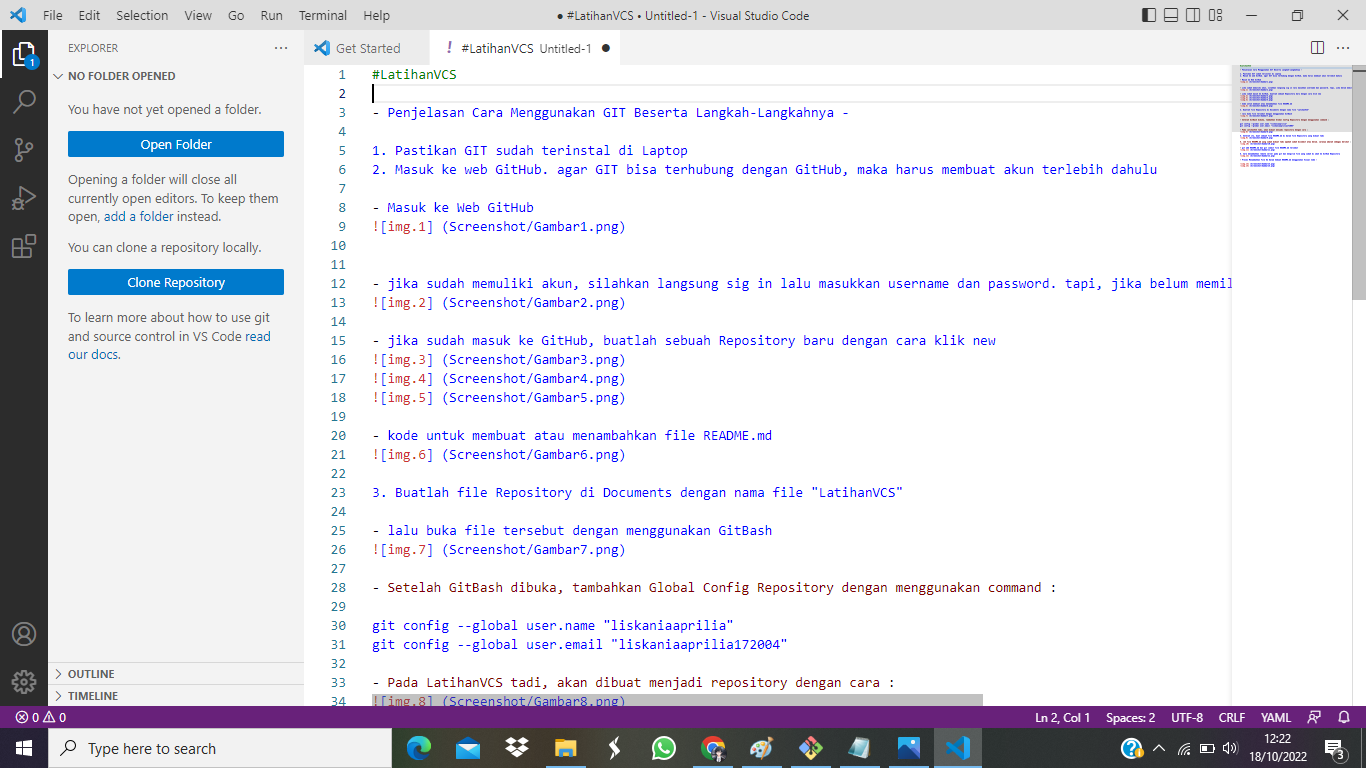
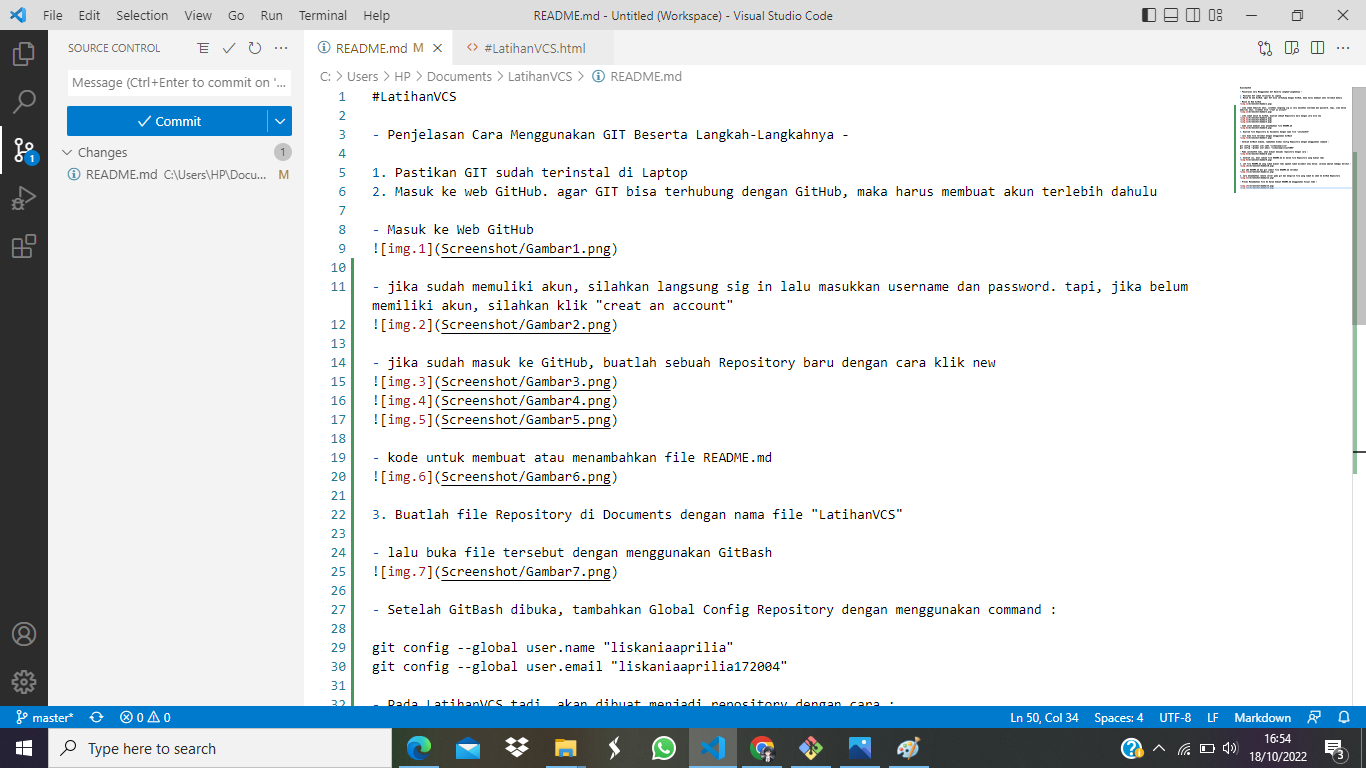
Perbaikan Terakhir

diff --git a/README.md b/README.md
@@ -7,3 +7,45 @@
 
 - Masuk ke Web GitHub
 ![img.1](Screenshot/Gambar1.png)
+
+- jika sudah memuliki akun, silahkan langsung sig in lalu masukkan username dan password. tapi, jika belum memiliki akun, silahkan klik "creat an account"
+![img.2](Screenshot/Gambar2.png)
+
+- jika sudah masuk ke GitHub, buatlah sebuah Repository baru dengan cara klik new
+![img.3](Screenshot/Gambar3.png)
+![img.4](Screenshot/Gambar4.png)
+![img.5](Screenshot/Gambar5.png)
+
+- kode untuk membuat atau menambahkan file README.md
+![img.6](Screenshot/Gambar6.png)
+
+3. Buatlah file Repository di Documents dengan nama file "LatihanVCS"
+
+- lalu buka file tersebut dengan menggunakan GitBash
+![img.7](Screenshot/Gambar7.png)
+
+- Setelah GitBash dibuka, tambahkan Global Config Repository dengan menggunakan command :
+
+git config --global user.name "liskaniaaprilia"
+git config --global user.email "liskaniaaprilia172004"
+
+- Pada LatihanVCS tadi, akan dibuat menjadi repository dengan cara : 
+![img.8](Screenshot/Gambar8.png)
+
+4. Setelah itu, buat sebuah file README.md di dalam file Repository yang dibuat tadi
+![img.9](Screenshot/Gambar9.png)
+
+5. cek file README.md yang sudah dibuat tadi apakah sudah dicommit atau belum. caranya adalah sebagai berikut :
+![img.10](Screenshot/Gambar10.png)
+
+- git add README.md dan git commit file README.md tersebut
+![img.11](Screenshot/Gambar11.png)
+
+6. Cara menambahkan remote server pada git dan mengirim file yang sudah di ubah ke GitHub Repository
+![img.12](Screenshot/Gambar12.png)
+
+- Proses Menambahkan File Ke Dalam Sebuah README.md menggunakan Visual Code -
+
+![img.13](Screenshot/Gambar13.png)
+![img.14](Screenshot/Gambar14.png)
+
